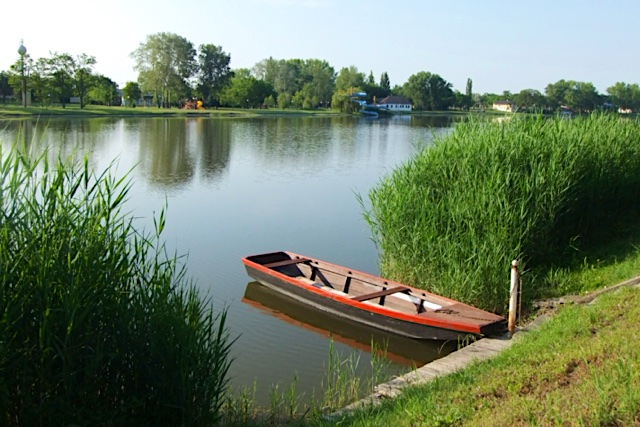
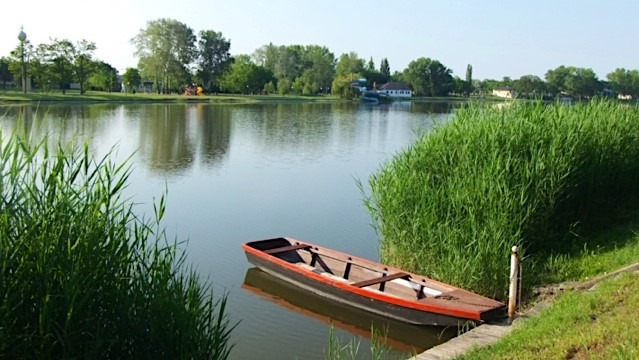
add flip image

diff --git a/index.html b/index.html
@@ -1,5 +1,6 @@
 <!DOCTYPE html>
 <html lang="hu">
+
 <head>
     <meta charset="UTF-8">
     <title>Házi feladat | Tavak</title>
@@ -13,8 +14,8 @@
             <!-- Header -->
             <img src="img/header-image.jpg" alt="szörfözők" title="szörfözők">
             <div class="header-content">
-            <h1>Pihenés a legszebb hazai tavak mellet</h1>
-            <p>Szálláshelyeink gyorsan betelnek, foglaljon szállást kedvezménnyel</p>
+                <h1>Pihenés a legszebb hazai tavak mellet</h1>
+                <p>Szálláshelyeink gyorsan betelnek, foglaljon szállást kedvezménnyel</p>
             </div>
         </header>
         <main>
@@ -120,10 +121,26 @@
             <div class="section">
                 <section id="balaton" class="first">
                     <h2>Balaton</h2>
+                    <!--
+                    
                     <div>
-                    <img src="img/balaton.jpg" alt="Balaton" title="Balatoni panoráma">
+                        <img src="img/balaton.jpg" alt="Balaton" title="Balatoni panoráma">
                     </div>
-                    <p>A balatoni régió a fürdésnél és a horgászásnál sokkal többet kínál az idelátogató vendégek számára. A vidék az ősidők óta folyamatosan lakott, s ezért szinte minden történelmi korból találhatók itt emlékek. Várak, várromok, középkori templomromok, csodálatos kastélyok őrzik múltunkat. A környék a tihanyi bencés apátságtól, a nagyvázsonyi Kinizsi váron át, a Keszthelyen található Festetics-kastélyig sok műemléket, látnivalót kínál. Emellett figyelmet érdemelnek az épségben fennmaradt balatoni tájházak is. Az oszlopokkal és íves tornácokkal díszített népi lakóházak, a füstöskonyhás parasztházak az itt élő egyszerű, vidéki emberek életébe engednek bepillantást.</p>
+-->
+
+                    <div class="flip-box">
+                        <div class="flip-box-inner">
+                            <div class="flip-box-front">
+                                <img src="img/balaton.jpg" alt="Balaton">
+                            </div>
+                            <div class="flip-box-back">
+                                <img src="img/balaton-1.jpg" alt="Balaton">
+
+                            </div>
+                        </div>
+                    </div>
+
+                    <p>A balatoni régió a fürdésnél és a horgászásnál sokkal többet kínál az idelátogató vendégek számára. A vidék az ősidők óta folyamatosan lakott, s ezért szinte minden történelmi korból találhatók itt emlékek. Várak, várromok, középkori templomromok, csodálatos kastélyok őrzik múltunkat. A környék a tihanyi bencés apátságtól, a nagyvázsonyi Kinizsi váron át,a Keszthelyen található Festetics-kastélyig sok műemléket, látnivalót kínál. Emellett figyelmet érdemelnek az épségben fennmaradt balatoni tájházak is. Az oszlopokkal és íves tornácokkal díszített népi lakóházak, a füstöskonyhás parasztházak az itt élő egyszerű, vidéki emberek életébe engednek bepillantást.</p>
 
                     <p>A balatoni konyha évszázadok alatt kialakult étkezési szokásokat őriz. A tó közelségének köszönhetően a vidéken gyakran kerül hal az asztalra. A leghíresebb és egyben a legízletesebb halfaj a balatoni fogassüllő, melyet leggyakrabban lisztben, paprikában megforgatva, forró zsírban hirtelen kisütve tálalnak. de érdemes megkóstolni a balatoni halászlét, a vörösboros birkapörköltet, és a hévízi húsos batyut is! Szomjunkat a Kékkút határában csordogáló friss kékkúti ásványvízzel olthatjuk, de a vidék hangulatához, ízvilágához, kultúrájához elengedhetetlenül hozzátartoznak a finom borok is.</p>
 
@@ -132,8 +149,18 @@
                 </section>
                 <section id="tisza-to" class="second">
                     <h2>Tisza-tó</h2>
+                    <div class="flip-box">
+                        <div class="flip-box-inner">
+                            <div class="flip-box-front">
+                                <img src="img/tisza-to.jpg" alt="Tisza-tó">
+                            </div>
+                            <div class="flip-box-back">
+                                <img src="img/tisza-to1.jpg" alt="Tisza-tó">
 
-                    <img src="img/tisza-to.jpg" alt="Tisza-tó" title="Panoráma a Tisza-tónál">
+                            </div>
+                        </div>
+                    </div>
+
                     <p>Tegyen egy képzeletbeli utazást egy különleges vízivilágban, az Alföld síkságán, a hömpölygő folyó és a tó találkozásánál! Burjánzó ártéri erdők, sárgán aranyló homokpadok, holtágak, szigetek, öbölzetek, madarak ezrei köröznek a levegőben és bújnak a nádasokban…körülöttük csend és harmónia. A természet csodája a Tisza-tó.</p>
 
                     <p>Magyarország tenyérnyi területén bejárhatja Európa különleges Világörökségét, a Tisza-tavi Madárrezervátumot, romantikus csónaktúrákat tehet, kipróbálhatja szerencséjét a legendás halbőségéről ismert Tiszán.</p>
@@ -144,7 +171,19 @@
                 </section>
                 <section id="szelidi-to" class="third">
                     <h2>Szelidi-tó</h2>
-                    <img src="img/szelidi-to.jpg" alt="Szelidi-tó" title="Panoráma a Szelidi-tónál">
+
+                    <div class="flip-box">
+                        <div class="flip-box-inner">
+                            <div class="flip-box-front">
+                                <img src="img/szelidi-to.jpg" alt="Szelidi-tó">
+                            </div>
+                            <div class="flip-box-back">
+                                <img src="img/szelidi-to1.jpg" alt="Szelidi-tó">
+
+                            </div>
+                        </div>
+                    </div>
+
                     <p>A tó déli partja igazi turisztikai központ. A magánszállásokon kívül itt több kemping és panzió várja az ide érkezőket. A beépített partszakaszon teljes hosszában strandot találunk, mely barátságos jegyárával, rendezettségével, szolgáltatásaival bárhol megállná a helyét. A parton két kölcsönzőben vízi biciklit, csónakot, szörföt is bérelhetünk, továbbá egy 400m2-es Vízi Élménypark várja a látogatókat. Közvetlenül a parton több büfé is üzemel a strandokon megszokottnak mondható kínálattal. A nyári főszezonban sem zsúfolt strandon mindenki megtalálhatja a neki megfelelő pihenési formát. A kisgyermekekkel érkezők is nyugodtan pihenhetnek, mert a víz lassan mélyül, és több helyen külön pancsolók vannak kialakítva a kicsiknek.</p>
 
                     <p>A tavon vizibicikli, csónak, kajak, kenu, szörf kölcsönzésre van lehetőség. A tavat és környékét motiváció alapján eddig is pihenés, nyaralás, úszás, fürdőzés, aktív turizmuson belül a vízi sportok űzése, túrázás, a természeti értékek megtekintése, tanulmányozása, illetve horgászat, vadászat miatt keresték fel.</p>
@@ -163,4 +202,7 @@
         </footer>
 
     </div>
-</body></html>
+
+</body>
+
+</html>

diff --git a/css/styles.css b/css/styles.css
@@ -41,13 +41,13 @@ header {
     position: relative;
     margin: 0 1%;
     border-radius: 17px;
-/*    border: 3px solid lightgray;*/
+    /*    border: 3px solid lightgray;*/
 }
 
 header img,
 div.header-content {
     width: 100%;
-/*    position: relative;*/
+    /*    position: relative;*/
     margin: 0 auto;
     border-radius: 17px;
     border: 3px solid lightgray;
@@ -185,17 +185,8 @@ div.section img:hover {
     max-width: 600px;
     width: 100%;
     opacity: 100% !important;
-    
-}
 
-/*
-div.section:hover {
-    animation-name: szurke;
-    animation-duration: 1s;
-    animation-iteration-count: infinite;
-    
 }
-*/
 
 
 /* Section CSS end */
@@ -332,3 +323,61 @@ img.email:hover {
 }
 
 /* Footer CSS end */
+
+
+.flip-box {
+    background-color: transparent;
+    width: 400px;
+    height: 200px;
+    margin: 0 0 20px 10px;
+    padding-bottom: 10px;
+    /*
+max-width: 400px;
+    width: 100%;  
+    height: auto;
+*/
+    float: right;
+
+    /*  border: 1px solid #f1f1f1;*/
+    perspective: 1000px;
+    /* Remove this if you don't want the 3D effect */
+}
+
+/* This container is needed to position the front and back side */
+.flip-box-inner {
+    position: relative;
+    width: 100%;
+    height: 100%;
+    text-align: center;
+    transition: transform 0.8s;
+    transform-style: preserve-3d;
+}
+
+/* Do an horizontal flip when you move the mouse over the flip box container */
+.flip-box:hover .flip-box-inner {
+    transform: rotateY(180deg);
+}
+
+/* Position the front and back side */
+.flip-box-front,
+.flip-box-back {
+    position: absolute;
+    width: 100%;
+    height: 100%;
+    -webkit-backface-visibility: hidden;
+    /* Safari */
+    backface-visibility: hidden;
+}
+
+/* Style the front side (fallback if image is missing) */
+.flip-box-front {
+    background-color: #bbb;
+    color: black;
+}
+
+/* Style the back side */
+.flip-box-back {
+    background-color: dodgerblue;
+    color: white;
+    transform: rotateY(180deg);
+}
